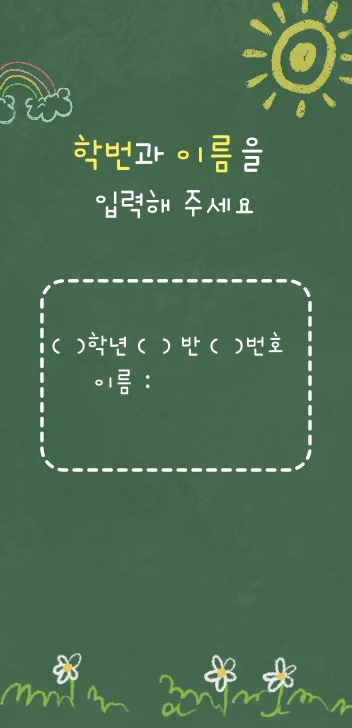
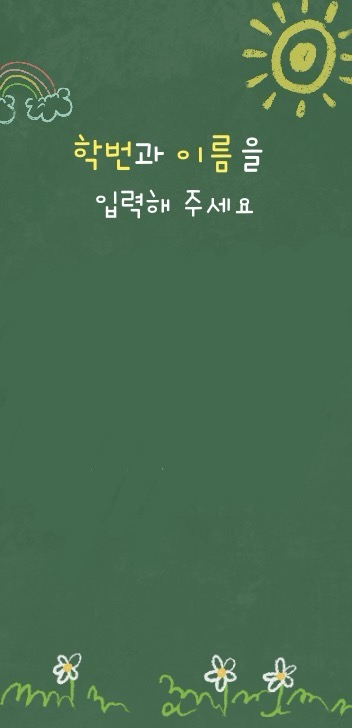
intro v6

diff --git a/style.css b/style.css
@@ -103,7 +103,7 @@ body, .splash-title-text, .input-label-text, .info-input, .splash-start-button {
     color: #FFEB3B; /* 입력 글자색 */
     font-size: 1.3em;
     padding: 2px 5px;
-    margin: 0 3px; /* 텍스트/괄호와의 간격 (5px에서 3px로 줄임) */
+    margin: 0 1px; /* 텍스트/괄호와의 간격 (5px에서 3px로 줄임) */
     min-width: 40px; /* 최소 너비 */
     flex-grow: 1; /* 남은 공간 채우기 */
     text-align: center; /* 가운데 정렬 */

diff --git a/index.html b/index.html
@@ -9,7 +9,6 @@
 </head>
 <body>
     <div id="splash-screen" class="splash-screen">
-        <h2 class="splash-title-text">학번과 이름을 입력해 주세요</h2>
         <div class="input-form-box">
             <div class="input-line">
                 <span class="input-label-text">( </span><input type="number" id="inputGrade" min="1" max="6" placeholder="" class="info-input"><span class="input-label-text"> )학년 ( </span>
